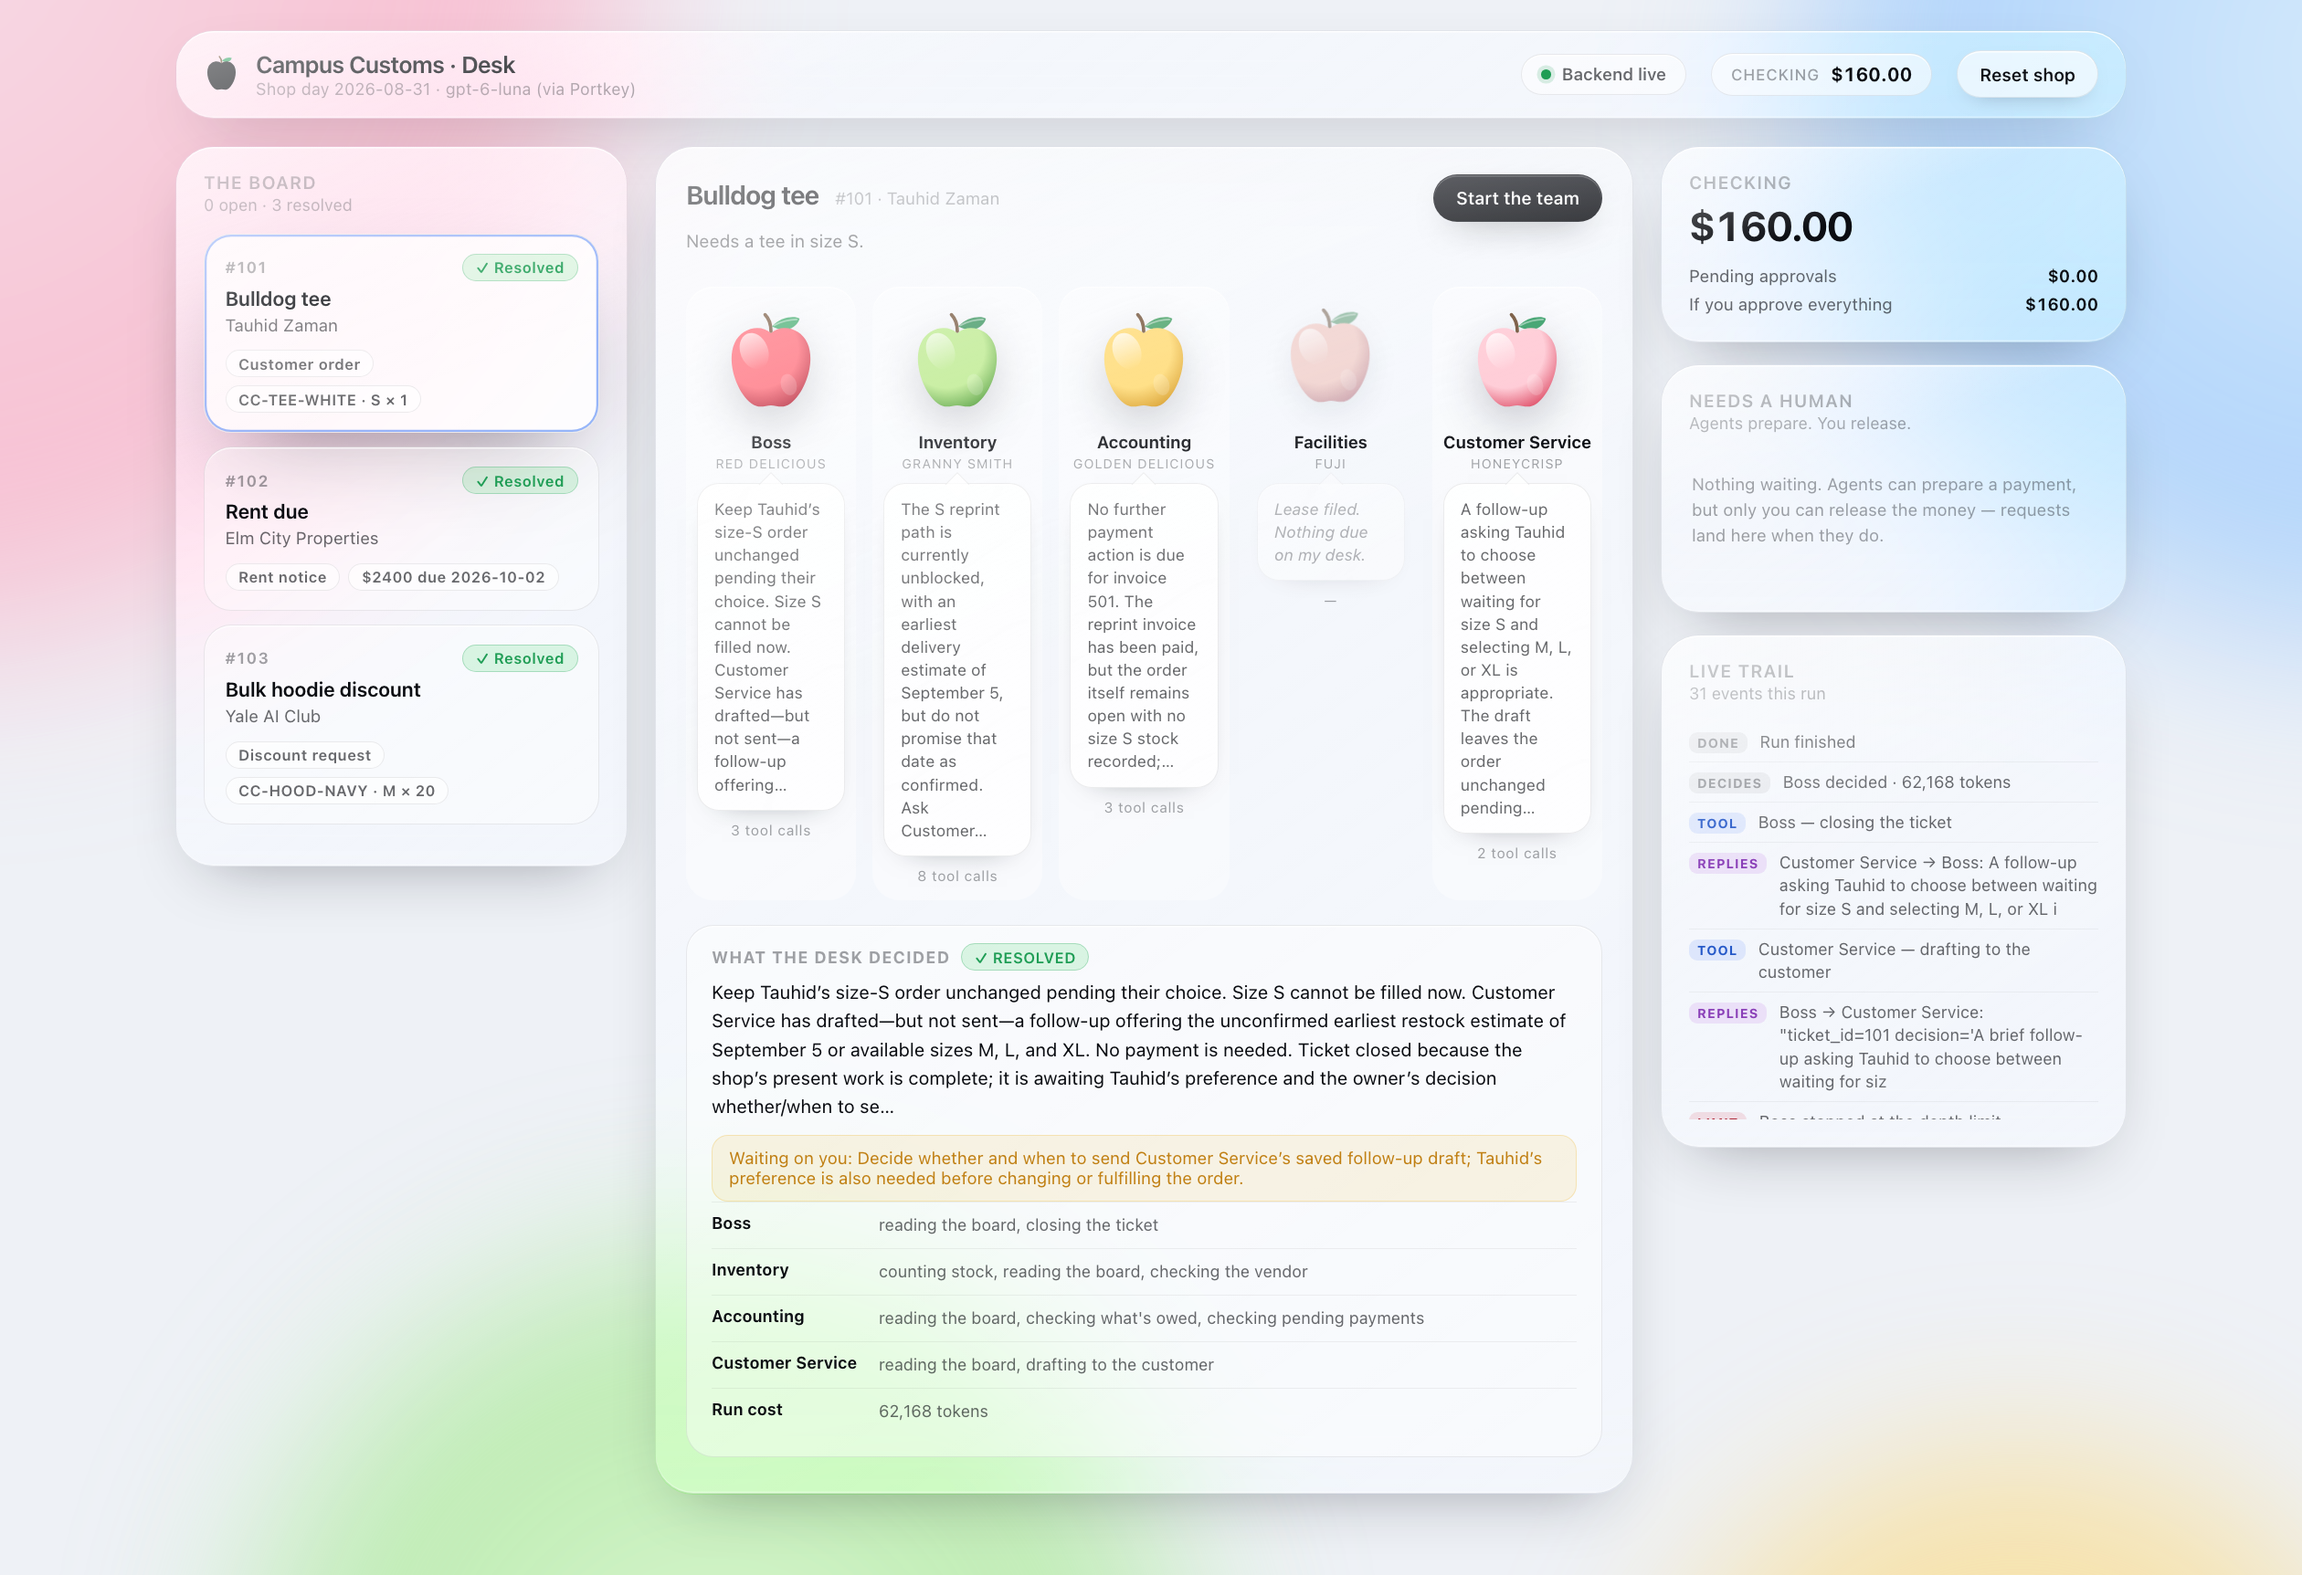
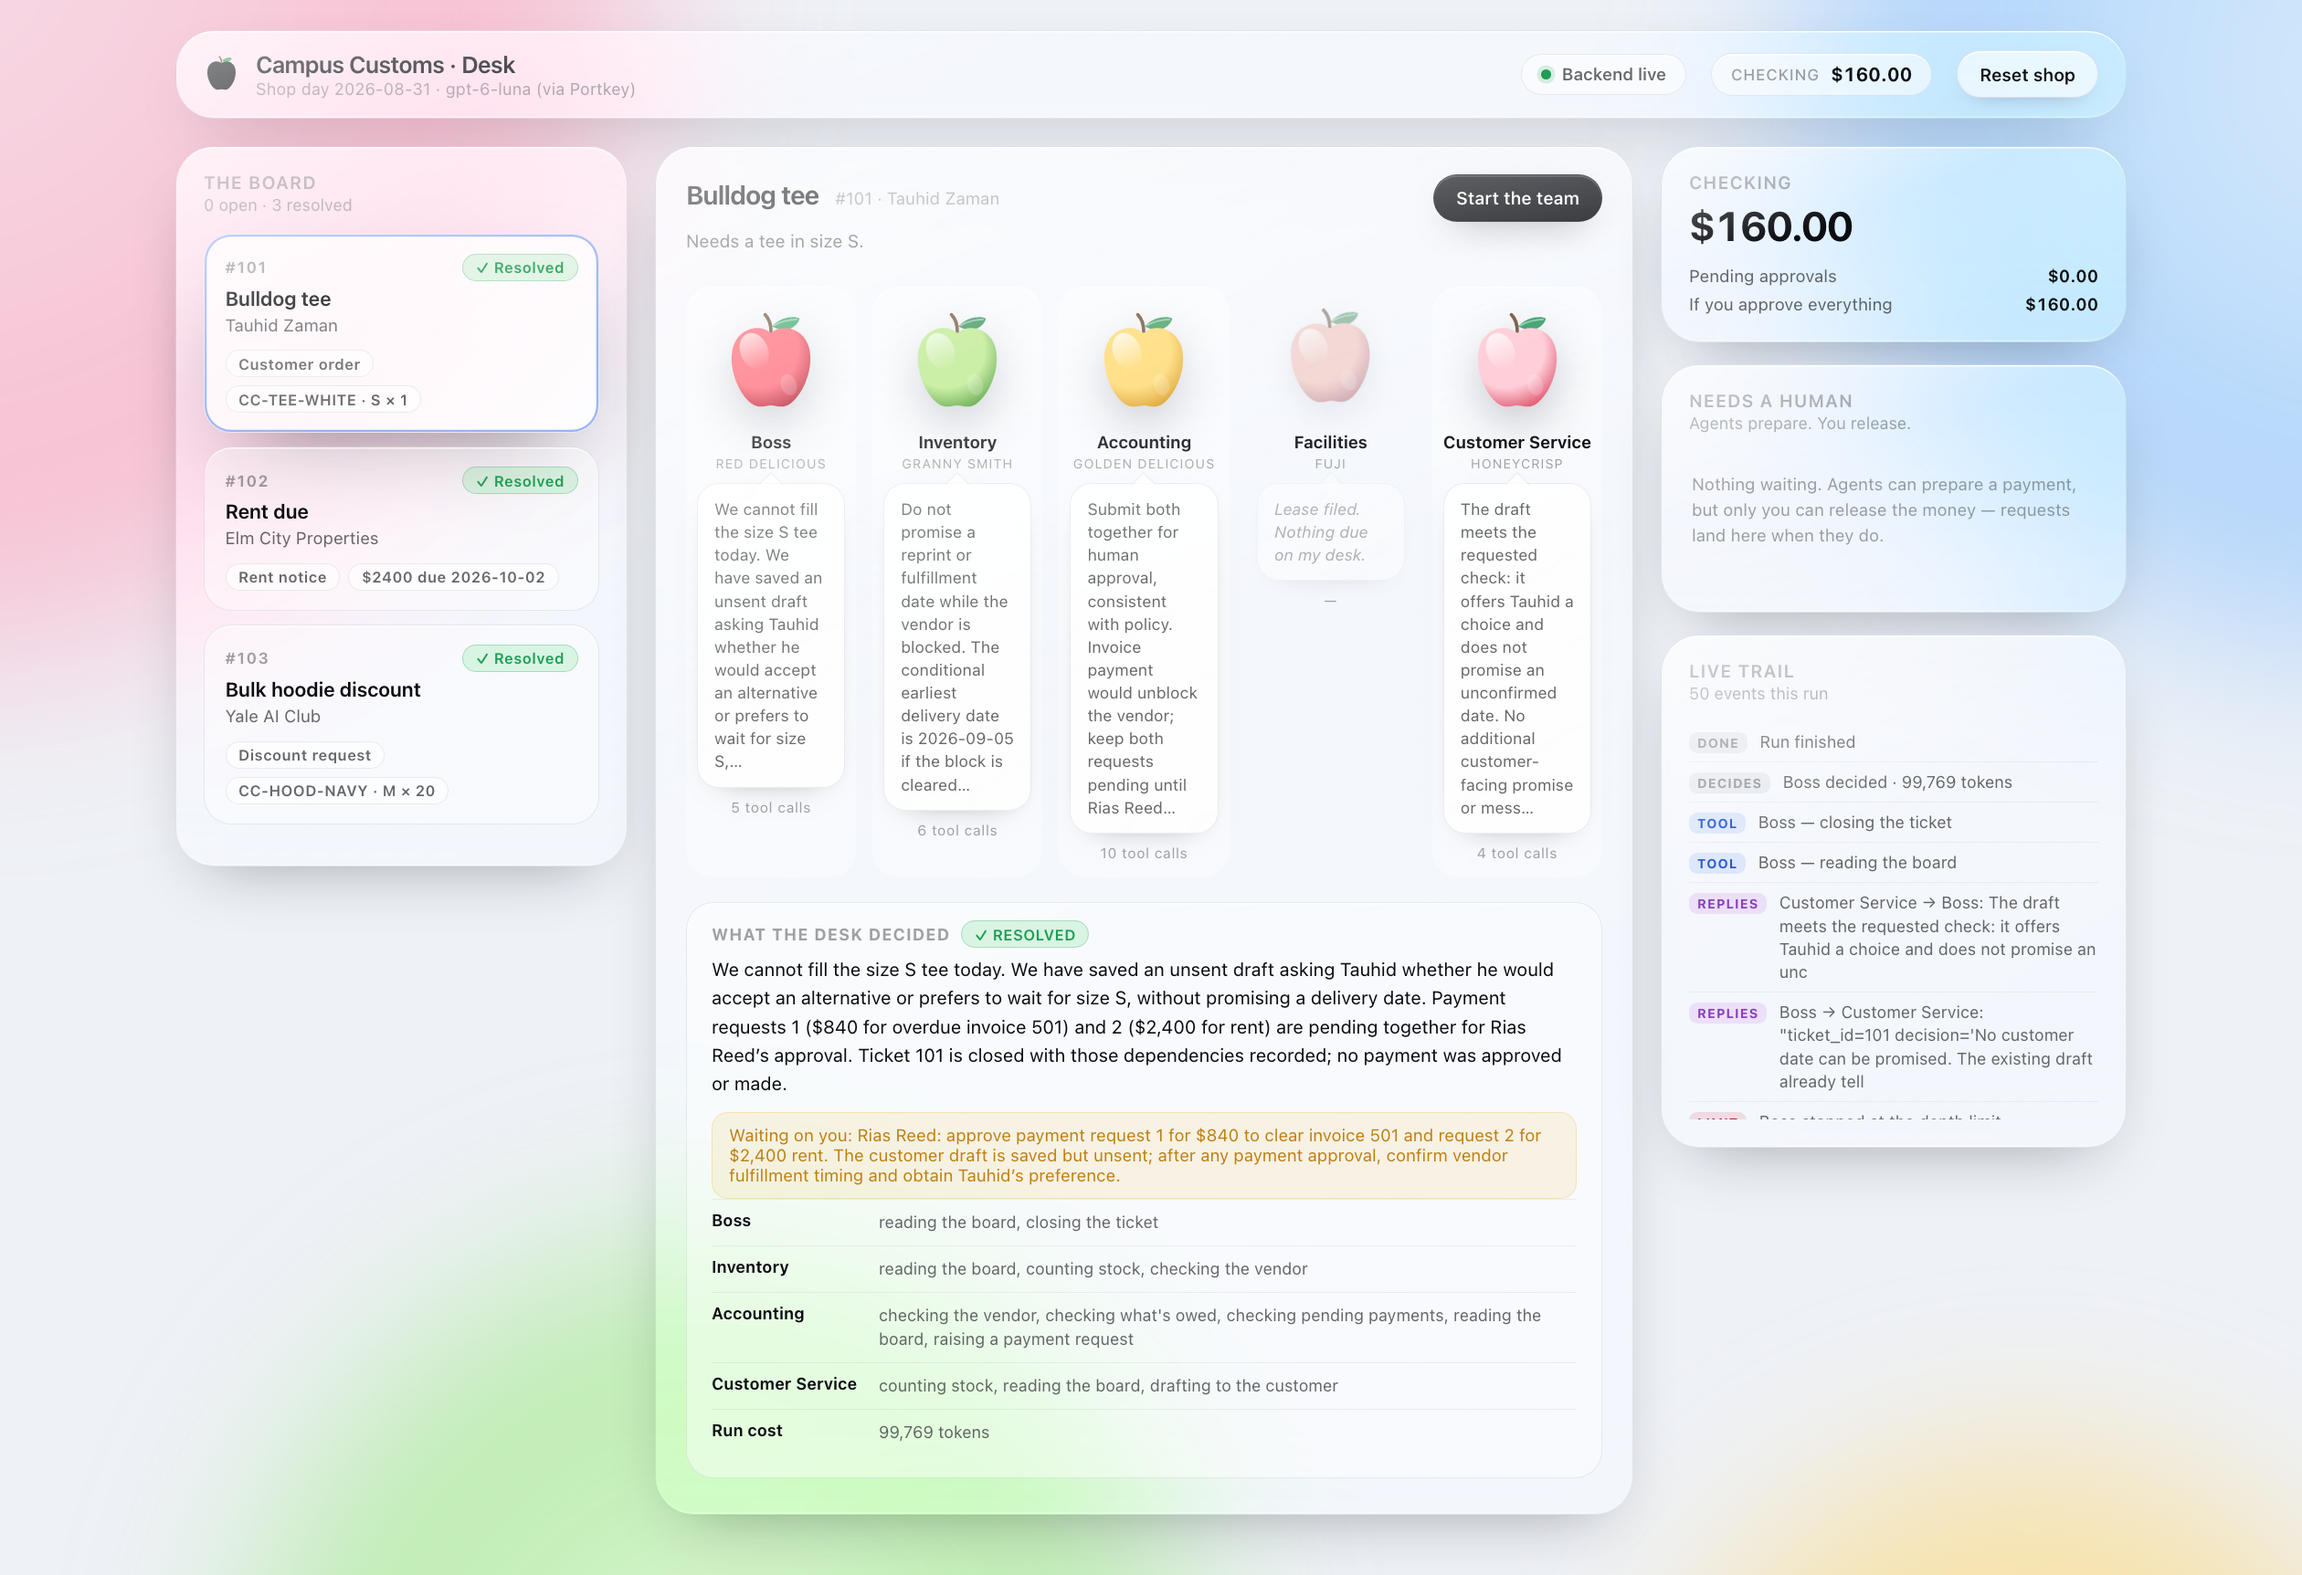
Finish ticket 103 so the committed board matches the documentation
- All three tickets resolved in the working copy, checking at 160.00, both
  payments approved by a named human, invoice 501 paid
- .mcp.json now uses paths relative to the repo root, so a grader can register
  the MCP server from a fresh clone without editing anything
- README: how to verify a run against the database directly, and where the
  model pin is evidenced in the audit trail
- Screenshots refreshed from the final board

diff --git a/README.md b/README.md
@@ -44,8 +44,10 @@ python3 -m venv .venv
 cp .env.example .env     # then put your PORTKEY_API_KEY in it
 ```
 
-Every agent uses **`gpt-6-luna` through Portkey** and the code refuses to start
-with any other model.
+Every agent uses **`gpt-6-luna` through Portkey**, and `backend/agents.py`
+raises rather than start with any other model. Every run also records the model
+it used: each `run_start` line in `output/audit_trail.json` carries
+`"model": "gpt-6-luna (via Portkey)"`, across all 14 runs in the trail.
 
 ---
 
@@ -175,3 +177,23 @@ Both payments land in `payments` stamped `approved_by = "Rias Reed"`, invoice
 | `output/mcp_smoke.json` | Evidence of each MCP tool being called by the vibe coder |
 | `output/audit_trail.json` | Append-only: every tool call, delegation, decision and approval, across every run |
 | `backend/prompts/` | The five agent prompts, one file each |
+| `output/screenshots/` | The board captured for each resolved ticket |
+
+---
+
+## Verifying a run yourself
+
+After a run, check the shop's own books rather than taking the board's word:
+
+```bash
+sqlite3 data/campus_customs_new.db \
+  "select id, status from tickets;
+   select name, balance from cash_accounts;
+   select id, kind, amount, approved_by from payments;
+   select id, status from invoices;"
+```
+
+A correct full run leaves all three tickets `resolved`, checking at `160.0`,
+two rows in `payments` both approved by a named human, and invoice 501 `paid`.
+No row in `payments` should ever have a blank `approved_by` — the pay tool
+refuses it.

diff --git a/mcp_server/README.md b/mcp_server/README.md
@@ -103,3 +103,18 @@ Set `CAMPUS_CUSTOMS_DB` to point the server at a throwaway copy of the database
 for testing, so a test run never dirties the real working copy.
 
 Port 8002 keeps 8000 free for the FastAPI backend.
+
+## Connecting a vibe coder to it
+
+`.mcp.json` in the repo root registers this server as `campus-customs`, using
+paths relative to the repo root:
+
+```json
+{"mcpServers": {"campus-customs": {"command": ".venv/bin/python",
+                                   "args": ["mcp_server/server.py"]}}}
+```
+
+Create the virtualenv at the repo root first (`python3 -m venv .venv &&
+.venv/bin/pip install -r requirements.txt`) and the entry works from a fresh
+clone without editing any paths. `output/mcp_smoke.json` is the evidence of
+each tool being called this way.

diff --git a/output/harness.md b/output/harness.md
@@ -459,6 +459,11 @@ not arrive until 2026-09-05. The prompt was amended between passes 2 and 3 to
 allow closing when the only remaining step is outside the shop's hands, with
 the outstanding item named in the resolution.
 
+Ticket 103 was run once more afterwards so the committed working copy ends in
+the same state the documentation describes — all three resolved, checking at
+160.00. Every run, including that one and the ones driven from the dashboard,
+is appended to `output/audit_trail.json`; no run was ever removed from it.
+
 Artifacts from this run: `output/resolved_tickets.json`,
 `output/resolved_board.html` (with `output/screenshots/`), the Actual and Cash
 tabs of `output/desk_tickets.html`, and every step appended to
